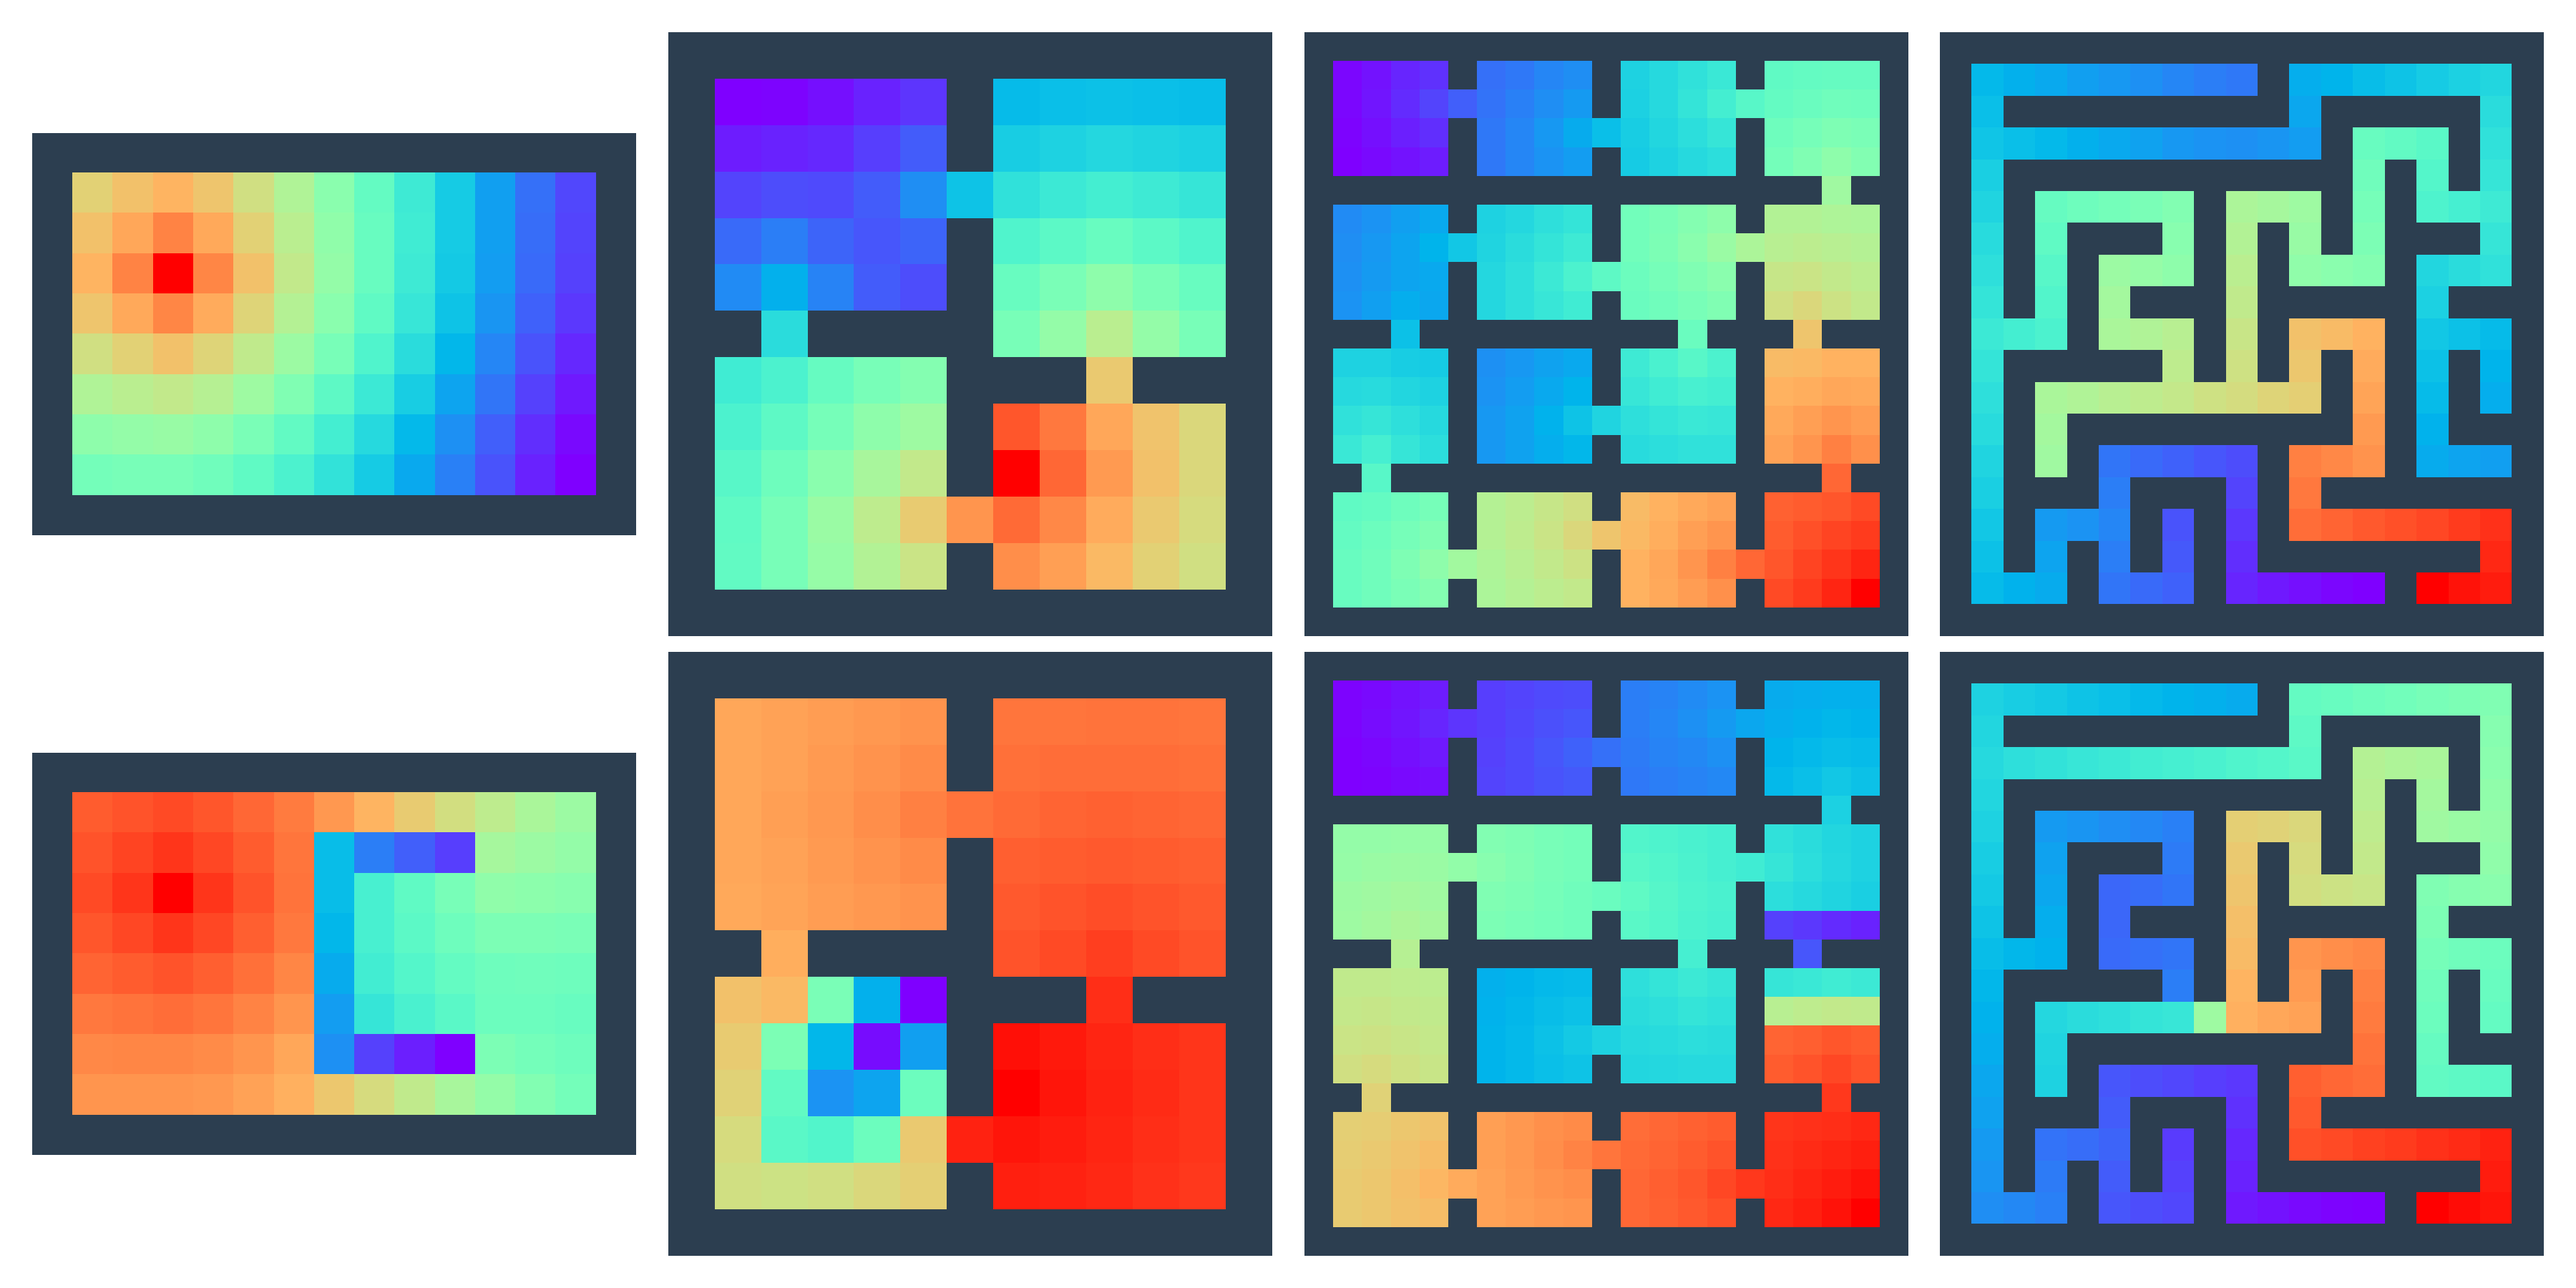
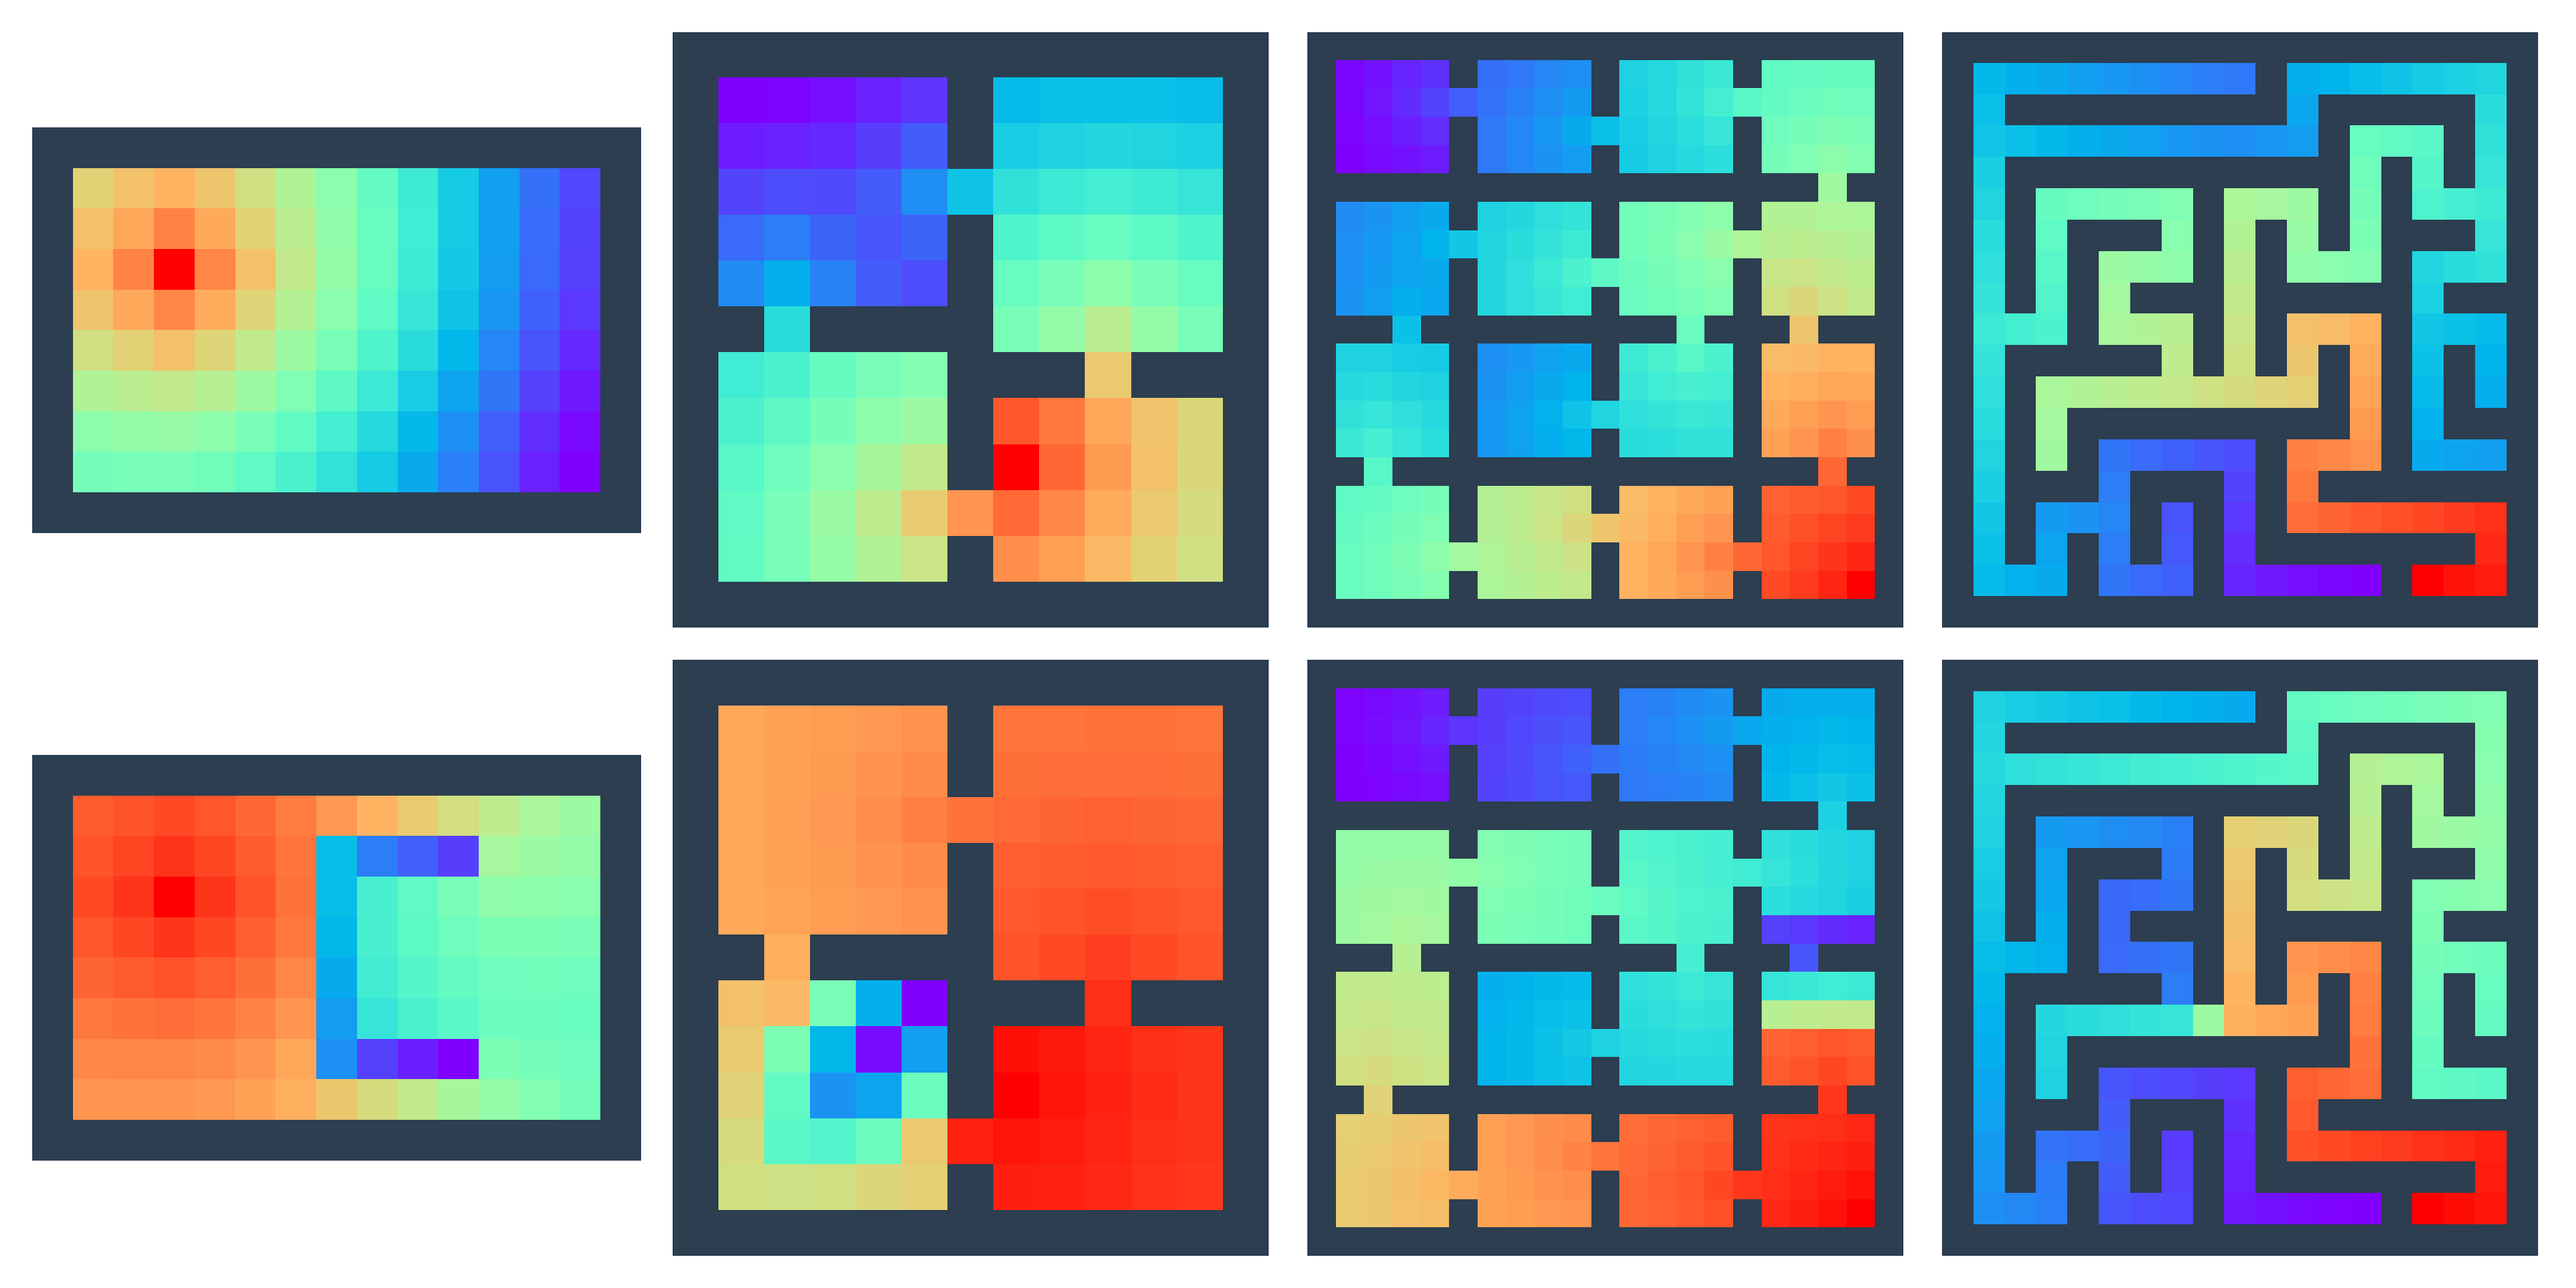
figure 123 adjust

diff --git a/examples/figure_123.py b/examples/figure_123.py
@@ -45,10 +45,10 @@ def figure_2(envs, lambds):
         shaper = RewardShaper(env)
 
         eigvec_DR = shaper.DR_top_log_eigenvector(lambd=lambd)
-        reward_DR = shaper.shaping_reward_transform_using_terminal_state(eigvec_DR)
+        # reward_DR = shaper.shaping_reward_transform_using_terminal_state(eigvec_DR)
 
         plt.subplot(2, 4, i + 1)
-        visualizer.visualize_shaping_reward_2d(reward_DR)
+        visualizer.visualize_shaping_reward_2d(eigvec_DR)
 
     plt.tight_layout()
     plt.savefig("minigrid_basics/plots/Figure_2.png", dpi=300)
@@ -70,10 +70,10 @@ def figure_3(envs):
         shaper = RewardShaper(env)
 
         eigvec_SR = shaper.SR_top_eigenvector()
-        reward_SR = shaper.shaping_reward_transform_using_terminal_state(eigvec_SR)
+        # reward_SR = shaper.shaping_reward_transform_using_terminal_state(eigvec_SR)
 
         plt.subplot(1, 4, i + 1)
-        visualizer.visualize_shaping_reward_2d(reward_SR)
+        visualizer.visualize_shaping_reward_2d(eigvec_SR)
 
     plt.tight_layout()
     plt.savefig("minigrid_basics/plots/Figure_3.png", dpi=300)

diff --git a/examples/visualizer.py b/examples/visualizer.py
@@ -94,8 +94,8 @@ class Visualizer:
                 state_num += 1
 
         # use plt cmap to get colored image
-        # cmap = plt.get_cmap('rainbow')
-        cmap = plt.get_cmap('Reds')
+        cmap = plt.get_cmap('rainbow')
+        # cmap = plt.get_cmap('Reds')
         norm = mpl.colors.Normalize(vmin=vmin, vmax=vmax)
         scalar_map = cm.ScalarMappable(norm=norm, cmap=cmap)
         image = scalar_map.to_rgba(image)
